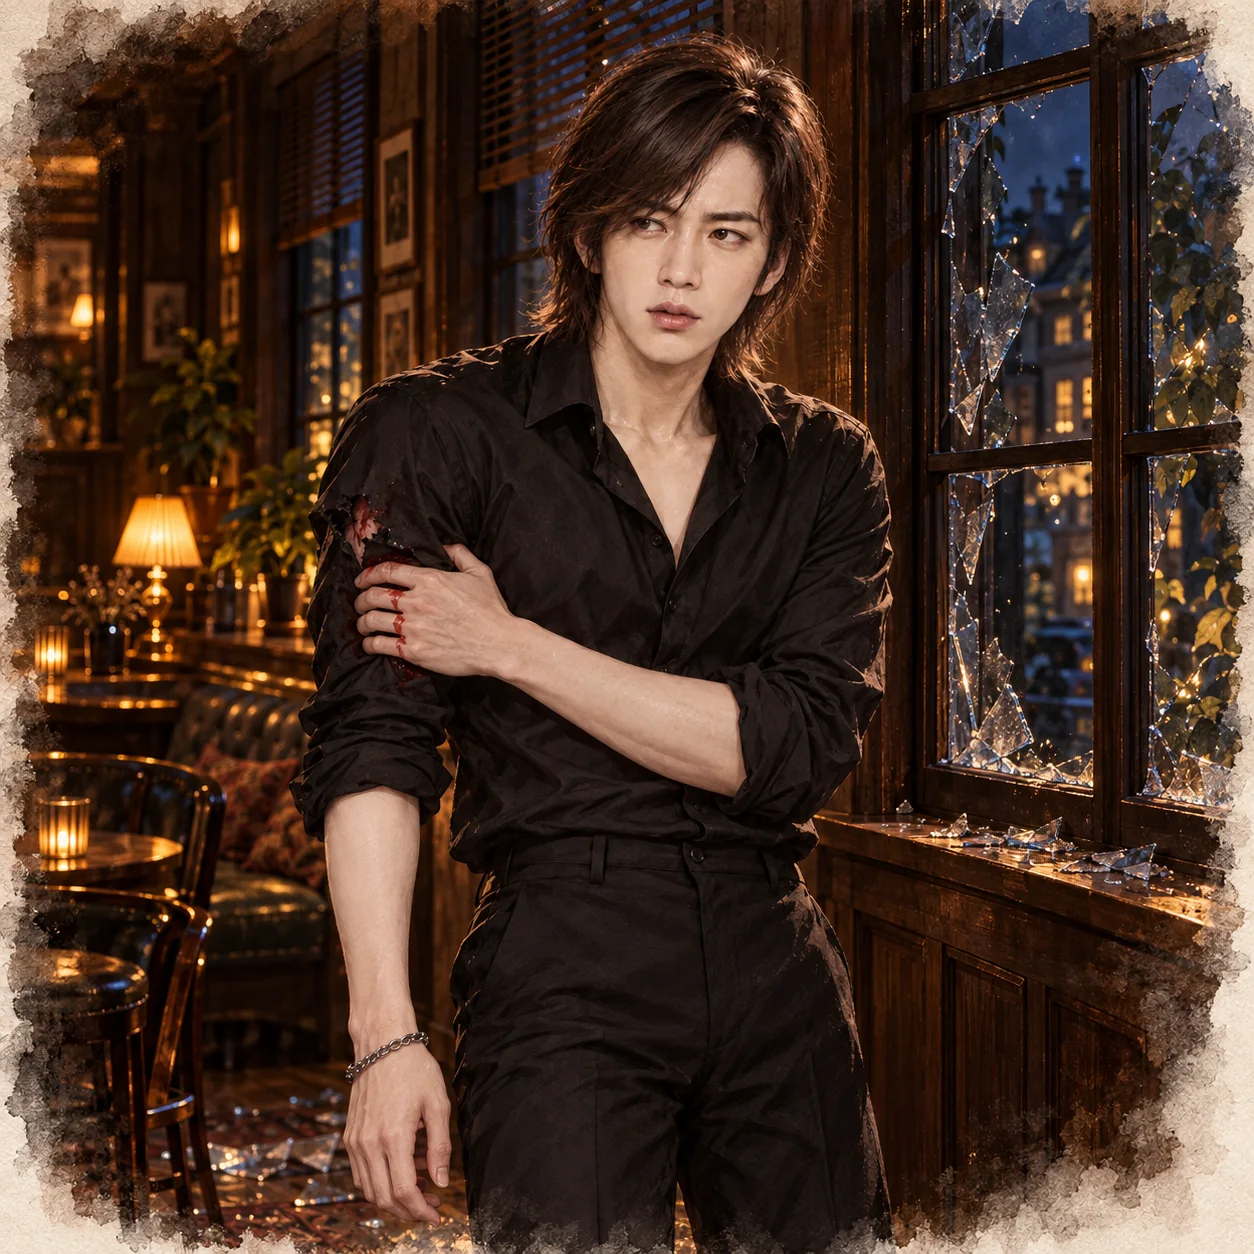
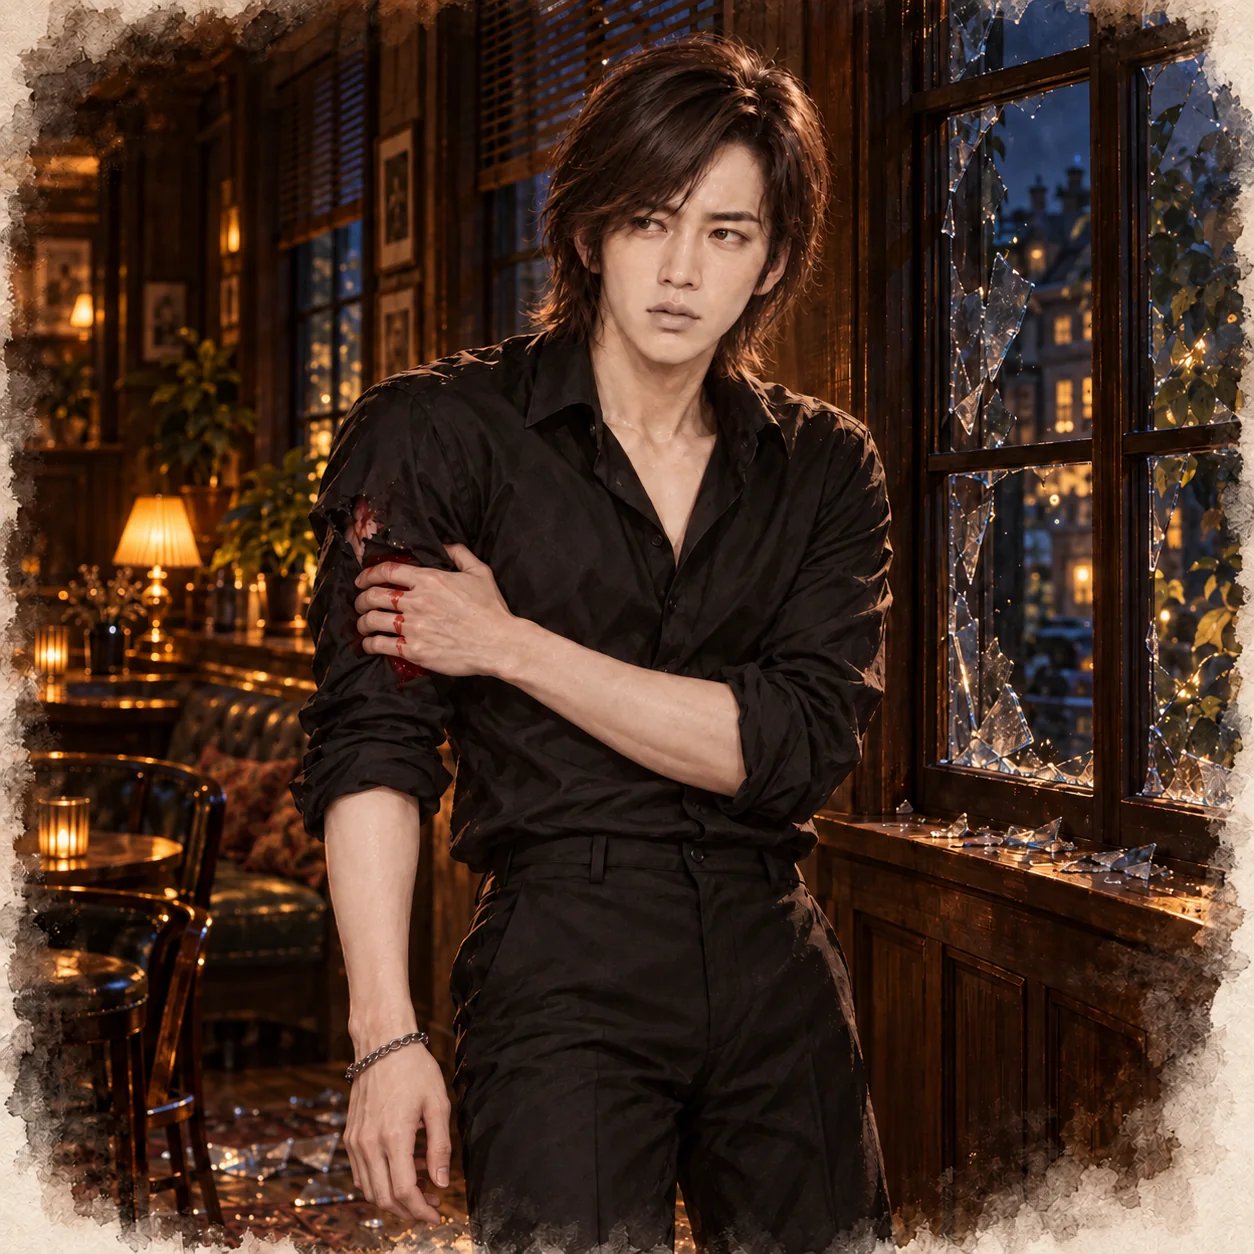
第一部第四章：江澈插圖改用唇色較淡的版本
Claude-Session: https://claude.ai/code/session_01HUwf2ENyDuzceKaKYawxmj

diff --git a/novels/no-signboard-bar/chapter-04.html b/novels/no-signboard-bar/chapter-04.html
@@ -1,5 +1,5 @@
 <!doctype html><html lang="zh-Hant"><head><meta charset="utf-8"><meta name="viewport" content="width=device-width,initial-scale=1"><title>第四章 餅乾一人一半｜沒有招牌的酒吧｜Beauty</title><meta name="description" content="沒有招牌的酒吧，第一部第四章〈餅乾一人一半〉。江澈、溫寧、陸曜、林棠，四人第一人稱輪流敘事。"><link rel="stylesheet" href="../../assets/forest/site.css"><link rel="stylesheet" href="../../assets/forest/reader.css"><link rel="stylesheet" href="../../assets/forest/novel.css?v=reader-font1"><link rel="stylesheet" href="../../assets/forest/reader-plus.css?v=1"></head><body><header class="site-header"><a class="brand" href="../../">Beauty <span class="small-paw">✧</span></a><nav aria-label="主要導覽"><a href="../../#books">小說</a><a href="../../#xiaoruan">小軟</a><a href="../../#about">關於我</a></nav></header><div class="forest-banner"><img src="../../assets/forest/xiaoruan-hero-v2.webp" alt="小軟的童話森林" width="1672" height="941"></div><main class="reader-shell" id="main"><nav class="breadcrumb" aria-label="所在位置"><a href="../../#books">故事森林</a><span>／</span><a href="./">沒有招牌的酒吧</a><span>／ 第一部</span></nav><article class="reader-paper"><header class="reader-heading"><p class="eyebrow">沒有招牌的酒吧 · 第一部</p><h1>第四章　餅乾一人一半</h1><p class="reader-meta">Beauty 著 · 四人第一人稱輪流敘事</p><nav class="pov-nav" aria-label="本章視角"><a href="#pov-1">江澈</a><a href="#pov-2">溫寧</a><a href="#pov-3">陸曜</a><a href="#pov-4">林棠</a></nav><div class="reader-settings" role="group" aria-label="閱讀字級"><span>字級</span><button type="button" data-font-step="-1" aria-label="縮小文字">A−</button><button type="button" data-font-step="1" aria-label="放大文字">A＋</button><button type="button" data-font-reset>還原</button><output aria-live="polite" class="reader-font-status">預設</output></div></header><div class="reader-body"><section class="pov pov-jiang" data-name="江澈">
-<div class="pov-opening"><h2 class="pov-title" id="pov-1"><span>敘事視角</span>江澈</h2><a class="pov-art" href="../../assets/novels/no-signboard-bar/chapter-04-jiang-che.webp?v=20261013" target="_blank" rel="noopener" aria-label="開啟江澈插圖大圖"><img src="../../assets/novels/no-signboard-bar/chapter-04-jiang-che.webp?v=20261013" alt="深夜的酒吧，窗玻璃被子彈打碎，江澈用左手按住流血的右臂，轉頭看向門口，地上散著碎玻璃。" width="1254" height="1254" loading="lazy" decoding="async"><span class="pov-cap">十二點零三分，只黑了半秒</span></a><div class="pov-intro"><p>十二點零三分，門開了。</p>
+<div class="pov-opening"><h2 class="pov-title" id="pov-1"><span>敘事視角</span>江澈</h2><a class="pov-art" href="../../assets/novels/no-signboard-bar/chapter-04-jiang-che.webp?v=20261013b" target="_blank" rel="noopener" aria-label="開啟江澈插圖大圖"><img src="../../assets/novels/no-signboard-bar/chapter-04-jiang-che.webp?v=20261013b" alt="深夜的酒吧，窗玻璃被子彈打碎，江澈用左手按住流血的右臂，轉頭看向門口，地上散著碎玻璃。" width="1254" height="1254" loading="lazy" decoding="async"><span class="pov-cap">十二點零三分，只黑了半秒</span></a><div class="pov-intro"><p>十二點零三分，門開了。</p>
 <p>我沒抬頭也知道是誰。他走路還是那個樣子，腳跟先著地，重心往右壓，右腰上永遠掛著東西。</p>
 <p>「好久不見。」他說。</p></div></div>
 <p>「打烊了。」</p>
